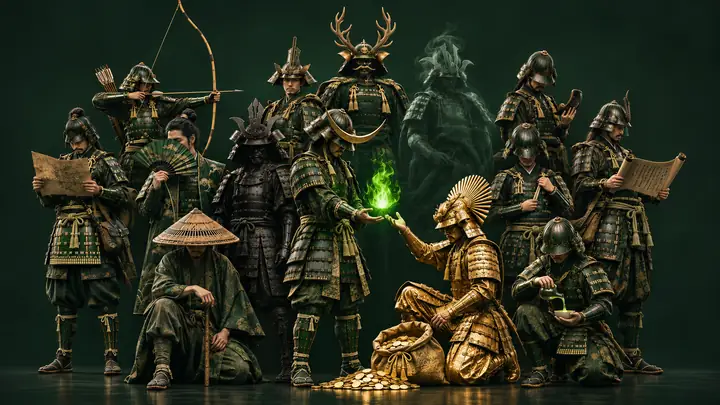
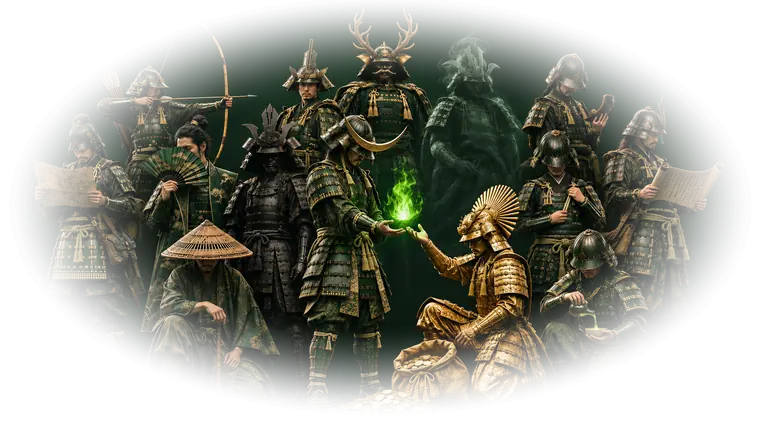
Фото клану: м'які краї запечені в саме зображення (Safari не показував фото з CSS-маскою)

diff --git a/index.html b/index.html
@@ -534,6 +534,9 @@ body.grid .ring .hint{opacity:0}
 @media (max-width:860px){ .army-img{-webkit-mask-image:radial-gradient(closest-side,#000 66%,transparent 100%)!important;mask-image:radial-gradient(closest-side,#000 66%,transparent 100%)!important} }
 /* одна картка клану завжди на одному місці — під блоком самураїв */
 #gBanner{display:none!important}
+/* Safari: м'які краї вже «запечені» у фото — CSS-маски вимкнено */
+.gbanner .gb-media .avatars img,.m-av img,.army-img{-webkit-mask-image:none!important;mask-image:none!important}
+.gbanner .gb-media .avatars img{object-fit:contain!important}
 </style>
 </head>
 <body>
